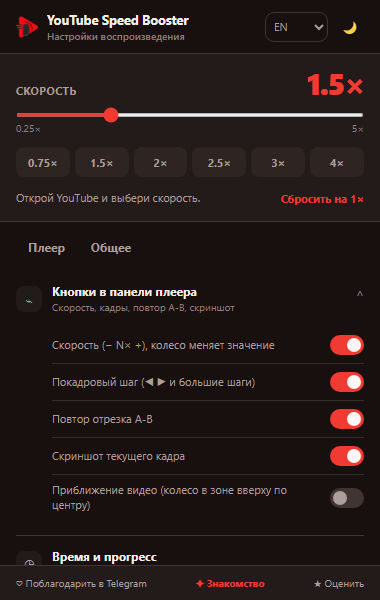
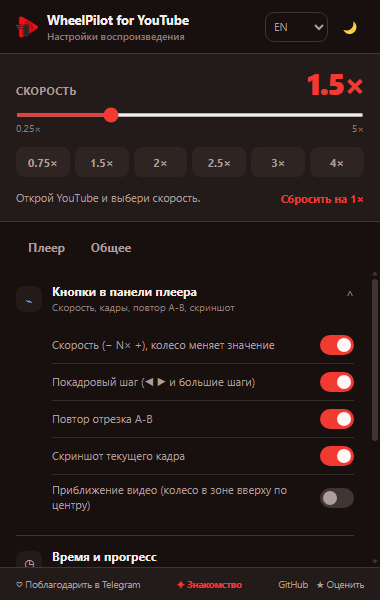
release: rebrand as WheelPilot for YouTube 0.2.3

diff --git a/youtube-speed-booster/content.js b/youtube-speed-booster/content.js
@@ -146,7 +146,7 @@ const translations = {
     screenshotSaved: "Кадр сохранён",
     screenshotFailed: "Не удалось сохранить кадр",
     videoZoomLabel: "Приблизить видео",
-    tourBrand: "YouTube Speed Booster · знакомство",
+    tourBrand: "WheelPilot for YouTube · знакомство",
     tourOverviewTitle: "Карта возможностей",
     tourOverviewBody: "Все основные зоны видны сразу. Нажмите на любую область или пройдите короткое знакомство по шагам.",
     tourMapLeft: (action) => `Колесо слева: ${action}`,
@@ -226,7 +226,7 @@ const translations = {
     screenshotSaved: "Frame saved",
     screenshotFailed: "Failed to save frame",
     videoZoomLabel: "Zoom video",
-    tourBrand: "YouTube Speed Booster · tour",
+    tourBrand: "WheelPilot for YouTube · tour",
     tourOverviewTitle: "Feature map",
     tourOverviewBody: "See every core area at once. Select any highlight or take the short guided tour.",
     tourMapLeft: (action) => `Wheel on left: ${action}`,
@@ -307,7 +307,7 @@ const translations = {
     screenshotSaved: "Fotograma guardado",
     screenshotFailed: "No se pudo guardar el fotograma",
     videoZoomLabel: "Acercar video",
-    tourBrand: "YouTube Speed Booster · recorrido",
+    tourBrand: "WheelPilot for YouTube · recorrido",
     tourOverviewTitle: "Mapa de funciones",
     tourOverviewBody: "Mira todas las zonas principales a la vez. Elige una o sigue el recorrido corto.",
     tourMapLeft: (action) => `Rueda a la izquierda: ${action}`,
@@ -387,7 +387,7 @@ const translations = {
     screenshotSaved: "프레임이 저장되었습니다",
     screenshotFailed: "프레임 저장 실패",
     videoZoomLabel: "동영상 확대",
-    tourBrand: "YouTube Speed Booster · 둘러보기",
+    tourBrand: "WheelPilot for YouTube · 둘러보기",
     tourOverviewTitle: "기능 지도",
     tourOverviewBody: "핵심 영역을 한눈에 보고 원하는 영역을 선택하거나 짧은 안내를 따라가세요.",
     tourMapLeft: (action) => `왼쪽 휠: ${action}`,

diff --git a/tests/popup-ui.test.js b/tests/popup-ui.test.js
@@ -31,10 +31,9 @@ test("GitHub footer button opens the public repository", () => {
 
 test("rating button targets the exact Chrome Web Store item", () => {
   const config = fs.readFileSync(path.join(root, "config.js"), "utf8");
-  assert.match(config, /mcfpmdhigeechfodngfolmfflffcimoh/);
-  assert.doesNotMatch(
+  assert.match(
     config,
-    /chromeStoreUrl:\s*"https:\/\/chromewebstore\.google\.com\/detail\/youtube-speed-booster"/,
+    /chromeStoreUrl:\s*\n?\s*"https:\/\/chromewebstore\.google\.com\/detail\/mcfpmdhigeechfodngfolmfflffcimoh"/,
   );
 });
 
@@ -83,6 +82,7 @@ test("settings import keeps the file input out of the popup layout", () => {
 });
 
 test("manifest metadata is localized in every supported popup language", () => {
+  assert.equal(manifest.version, "0.2.3");
   assert.equal(manifest.default_locale, "en");
   assert.equal(manifest.name, "__MSG_extensionName__");
   assert.equal(manifest.description, "__MSG_extensionDescription__");
@@ -103,5 +103,14 @@ test("manifest metadata is localized in every supported popup language", () => {
     ]) {
       assert.ok(messages[key]?.message, `${locale}.${key} is missing`);
     }
+    assert.equal(messages.extensionName.message, "WheelPilot for YouTube");
+    assert.equal(messages.actionTitle.message, "WheelPilot for YouTube");
   }
+});
+
+test("settings export uses the new brand and imports legacy backups", () => {
+  assert.match(js, /extension:\s*"WheelPilot for YouTube"/);
+  assert.match(js, /wheelpilot-settings-\$\{stamp\}\.json/);
+  assert.match(js, /"WheelPilot for YouTube"[\s\S]*"YouTube Speed Booster"/);
+  assert.match(js, /supportedExportBrands\.includes\(payload\.extension\)/);
 });

diff --git a/youtube-speed-booster/popup.html b/youtube-speed-booster/popup.html
@@ -2,7 +2,7 @@
 <html lang="ru">
     <head>
         <meta charset="utf-8" />
-        <title>YouTube Speed Booster</title>
+        <title>WheelPilot for YouTube</title>
         <link rel="stylesheet" href="popup.css" />
     </head>
     <body>
@@ -13,7 +13,7 @@
                 <div class="brand">
                     <img src="icon48.png" class="brand-mark" alt="" aria-hidden="true" />
                     <span class="brand-copy">
-                        <span class="brand-name" data-i18n="title">YouTube Speed Booster</span>
+                        <span class="brand-name" data-i18n="title">WheelPilot for YouTube</span>
                         <span class="brand-sub" data-i18n="brandSub">Настройки воспроизведения</span>
                     </span>
                 </div>

diff --git a/youtube-speed-booster/config.js b/youtube-speed-booster/config.js
@@ -2,7 +2,7 @@
 window.YSB_CONFIG = {
   // Полный URL карточки с постоянным ID расширения в Chrome Web Store.
   chromeStoreUrl:
-    "https://chromewebstore.google.com/detail/youtube-speed-booster/mcfpmdhigeechfodngfolmfflffcimoh",
+    "https://chromewebstore.google.com/detail/mcfpmdhigeechfodngfolmfflffcimoh",
 
   // Закреплённый пост официального канала с платной реакцией Telegram Stars.
   telegramSupportUrl: "https://t.me/YouTubeSpeedBooster/3",

diff --git a/tests/onboarding-ui.test.js b/tests/onboarding-ui.test.js
@@ -106,6 +106,8 @@ test("tour language is passed from popup and all tour copy is localized", () => 
     const occurrences = content.match(new RegExp(`\\b${key}:`, "g")) || [];
     assert.equal(occurrences.length, 4, `${key} must exist in RU, EN, ES, and KO`);
   }
+
+  assert.equal((content.match(/tourBrand:\s*"WheelPilot for YouTube/g) || []).length, 4);
 });
 
 test("content script exposes a guarded start message and records completion locally", () => {

diff --git a/youtube-speed-booster/popup.css b/youtube-speed-booster/popup.css
@@ -1,5 +1,5 @@
 /* ============================================================================
-   YouTube Speed Booster — popup.
+   WheelPilot for YouTube — popup.
 
    Редизайн 2026-08-02: единая композиция фиксированной высоты — шапка,
    закреплённый блок скорости, вкладки, прокручиваемая область с

diff --git a/docs/release-recommendations.md b/docs/release-recommendations.md
@@ -4,7 +4,7 @@
 
 ## Главное решение
 
-- Создать публичный Telegram-канал YouTube Speed Booster.
+- Обновить отображаемое название Telegram-канала на WheelPilot for YouTube.
 - Использовать платную реакцию ⭐ под отдельным закреплённым постом как основной
   способ благодарности.
 - Оставить подарок каналу 🎁 дополнительным памятным способом поддержки.
@@ -85,7 +85,7 @@
 - Не обещать пользователям, что подарок или звезда равны фиксированной сумме
   денег: курс, комиссии и региональные ограничения меняются.
 - Первые две недели после запуска ежедневно просматривать отзывы, Issues и
-  сообщения канала; критические исправления выпускать как `0.2.1`, `0.2.2`.
+  сообщения канала; критические исправления выпускать отдельными патчами.
 
 ## Ближайшее действие
 

diff --git a/docs/telegram-support.md b/docs/telegram-support.md
@@ -4,7 +4,7 @@
 
 ## Рекомендация
 
-Для YouTube Speed Booster лучше использовать публичный Telegram-канал проекта.
+Для WheelPilot for YouTube лучше использовать публичный Telegram-канал проекта.
 Основной способ благодарности — платная реакция Telegram Stars под отдельным
 закреплённым постом. Подарки каналу стоит оставить дополнительным, более
 эмоциональным вариантом.
@@ -86,7 +86,7 @@ https://t.me/YouTubeSpeedBooster/3
 
 ## Рекомендуемый текст закреплённого поста
 
-> **Поддержать YouTube Speed Booster**
+> **Поддержать WheelPilot for YouTube**
 >
 > Если расширение экономит вам время, можно отправить этому посту реакцию ⭐.
 > Выберите любое удобное количество звёзд — все функции расширения остаются

diff --git a/PRIVACY.md b/PRIVACY.md
@@ -1,8 +1,8 @@
-# Privacy Policy for YouTube Speed Booster
+# Privacy Policy for WheelPilot for YouTube
 
 Effective date: August 15, 2026
 
-YouTube Speed Booster does not collect, transmit, sell, or share personal data,
+WheelPilot for YouTube does not collect, transmit, sell, or share personal data,
 browsing history, YouTube viewing history, analytics, or advertising identifiers.
 
 The extension stores only the settings chosen by the user, such as playback
@@ -32,7 +32,7 @@ https://github.com/Work-root/youtube-speed-booster/issues
 
 Дата вступления в силу: 15 августа 2026 года.
 
-YouTube Speed Booster не собирает, не передаёт, не продаёт и не раскрывает
+WheelPilot for YouTube не собирает, не передаёт, не продаёт и не раскрывает
 персональные данные, историю браузера, историю просмотров YouTube, аналитику
 или рекламные идентификаторы.
 

diff --git a/README.md b/README.md
@@ -1,8 +1,8 @@
 <p align="center">
-  <img src="youtube-speed-booster/icon128.png" width="128" height="128" alt="YouTube Speed Booster logo">
+  <img src="youtube-speed-booster/icon128.png" width="128" height="128" alt="WheelPilot for YouTube logo">
 </p>
 
-<h1 align="center">YouTube Speed Booster</h1>
+<h1 align="center">WheelPilot for YouTube</h1>
 
 <p align="center"><strong>Control seeking, volume, and playback speed with the mouse wheel directly over the YouTube player.</strong></p>
 
@@ -38,8 +38,10 @@ zones can be always active, limited to fullscreen, or disabled.
 
 ## Installation
 
-The Chrome Web Store release is in preparation. To install the development
-version:
+Install the public release from the
+[Chrome Web Store](https://chromewebstore.google.com/detail/mcfpmdhigeechfodngfolmfflffcimoh).
+
+To install the development version:
 
 1. Open `chrome://extensions`.
 2. Enable **Developer mode**.
